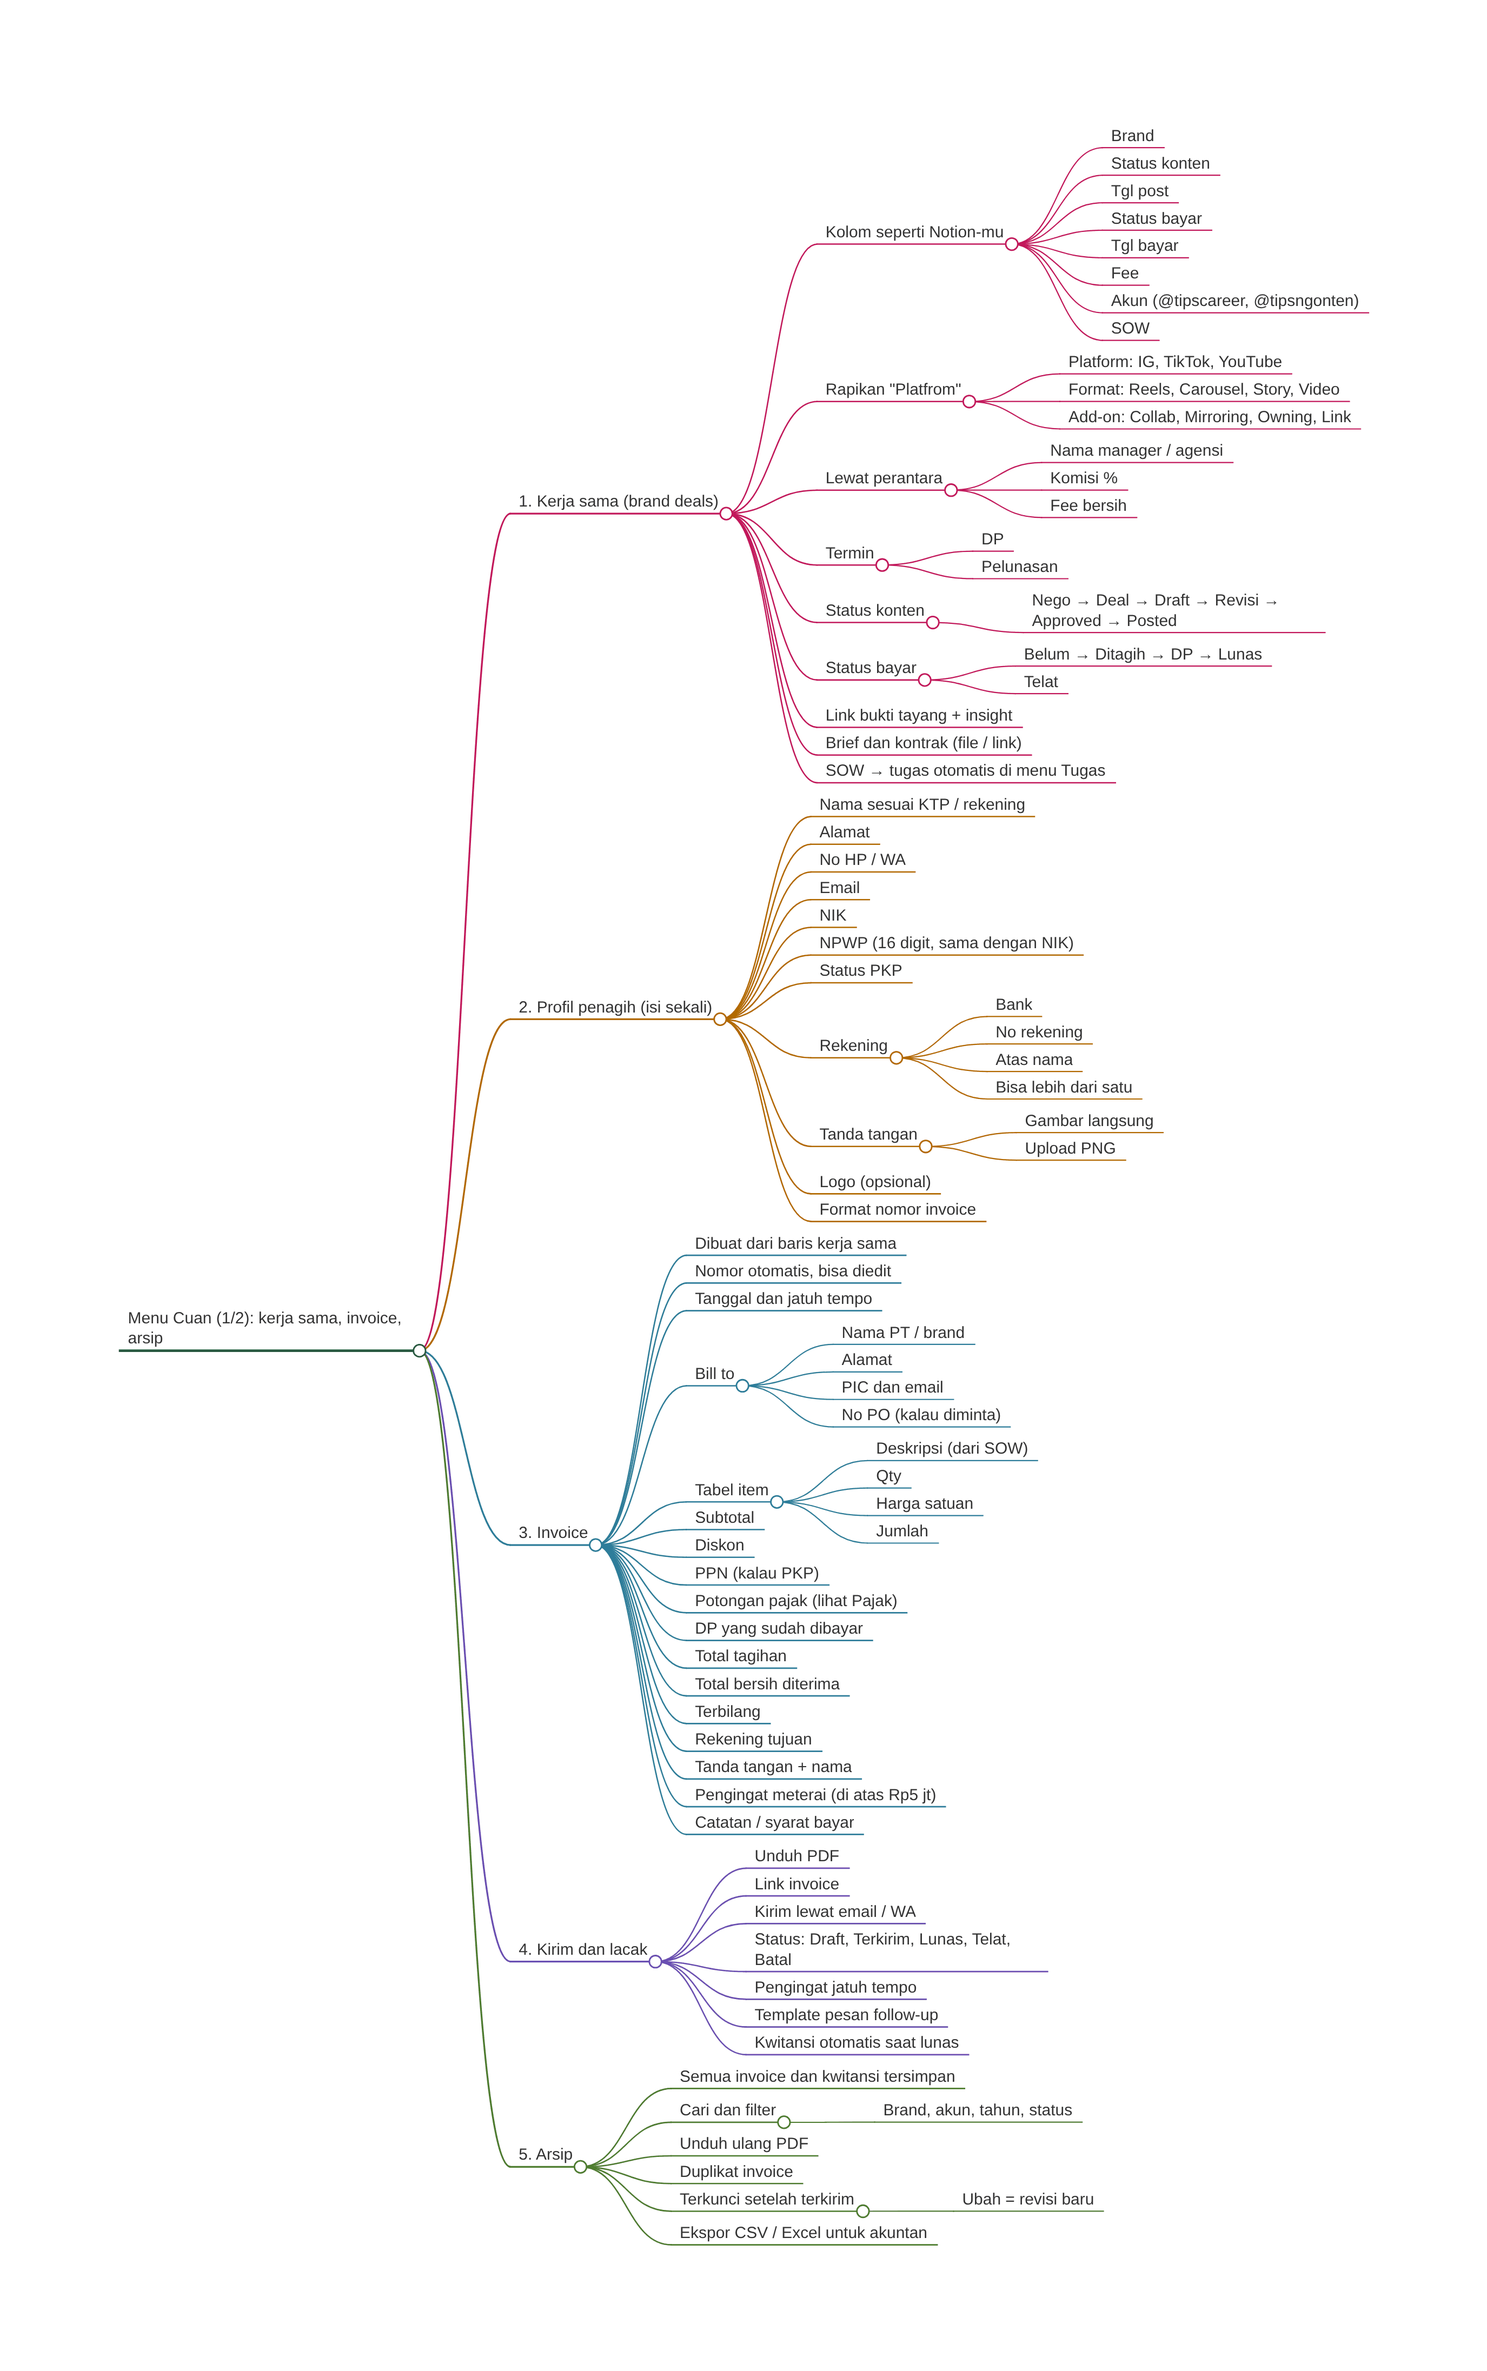
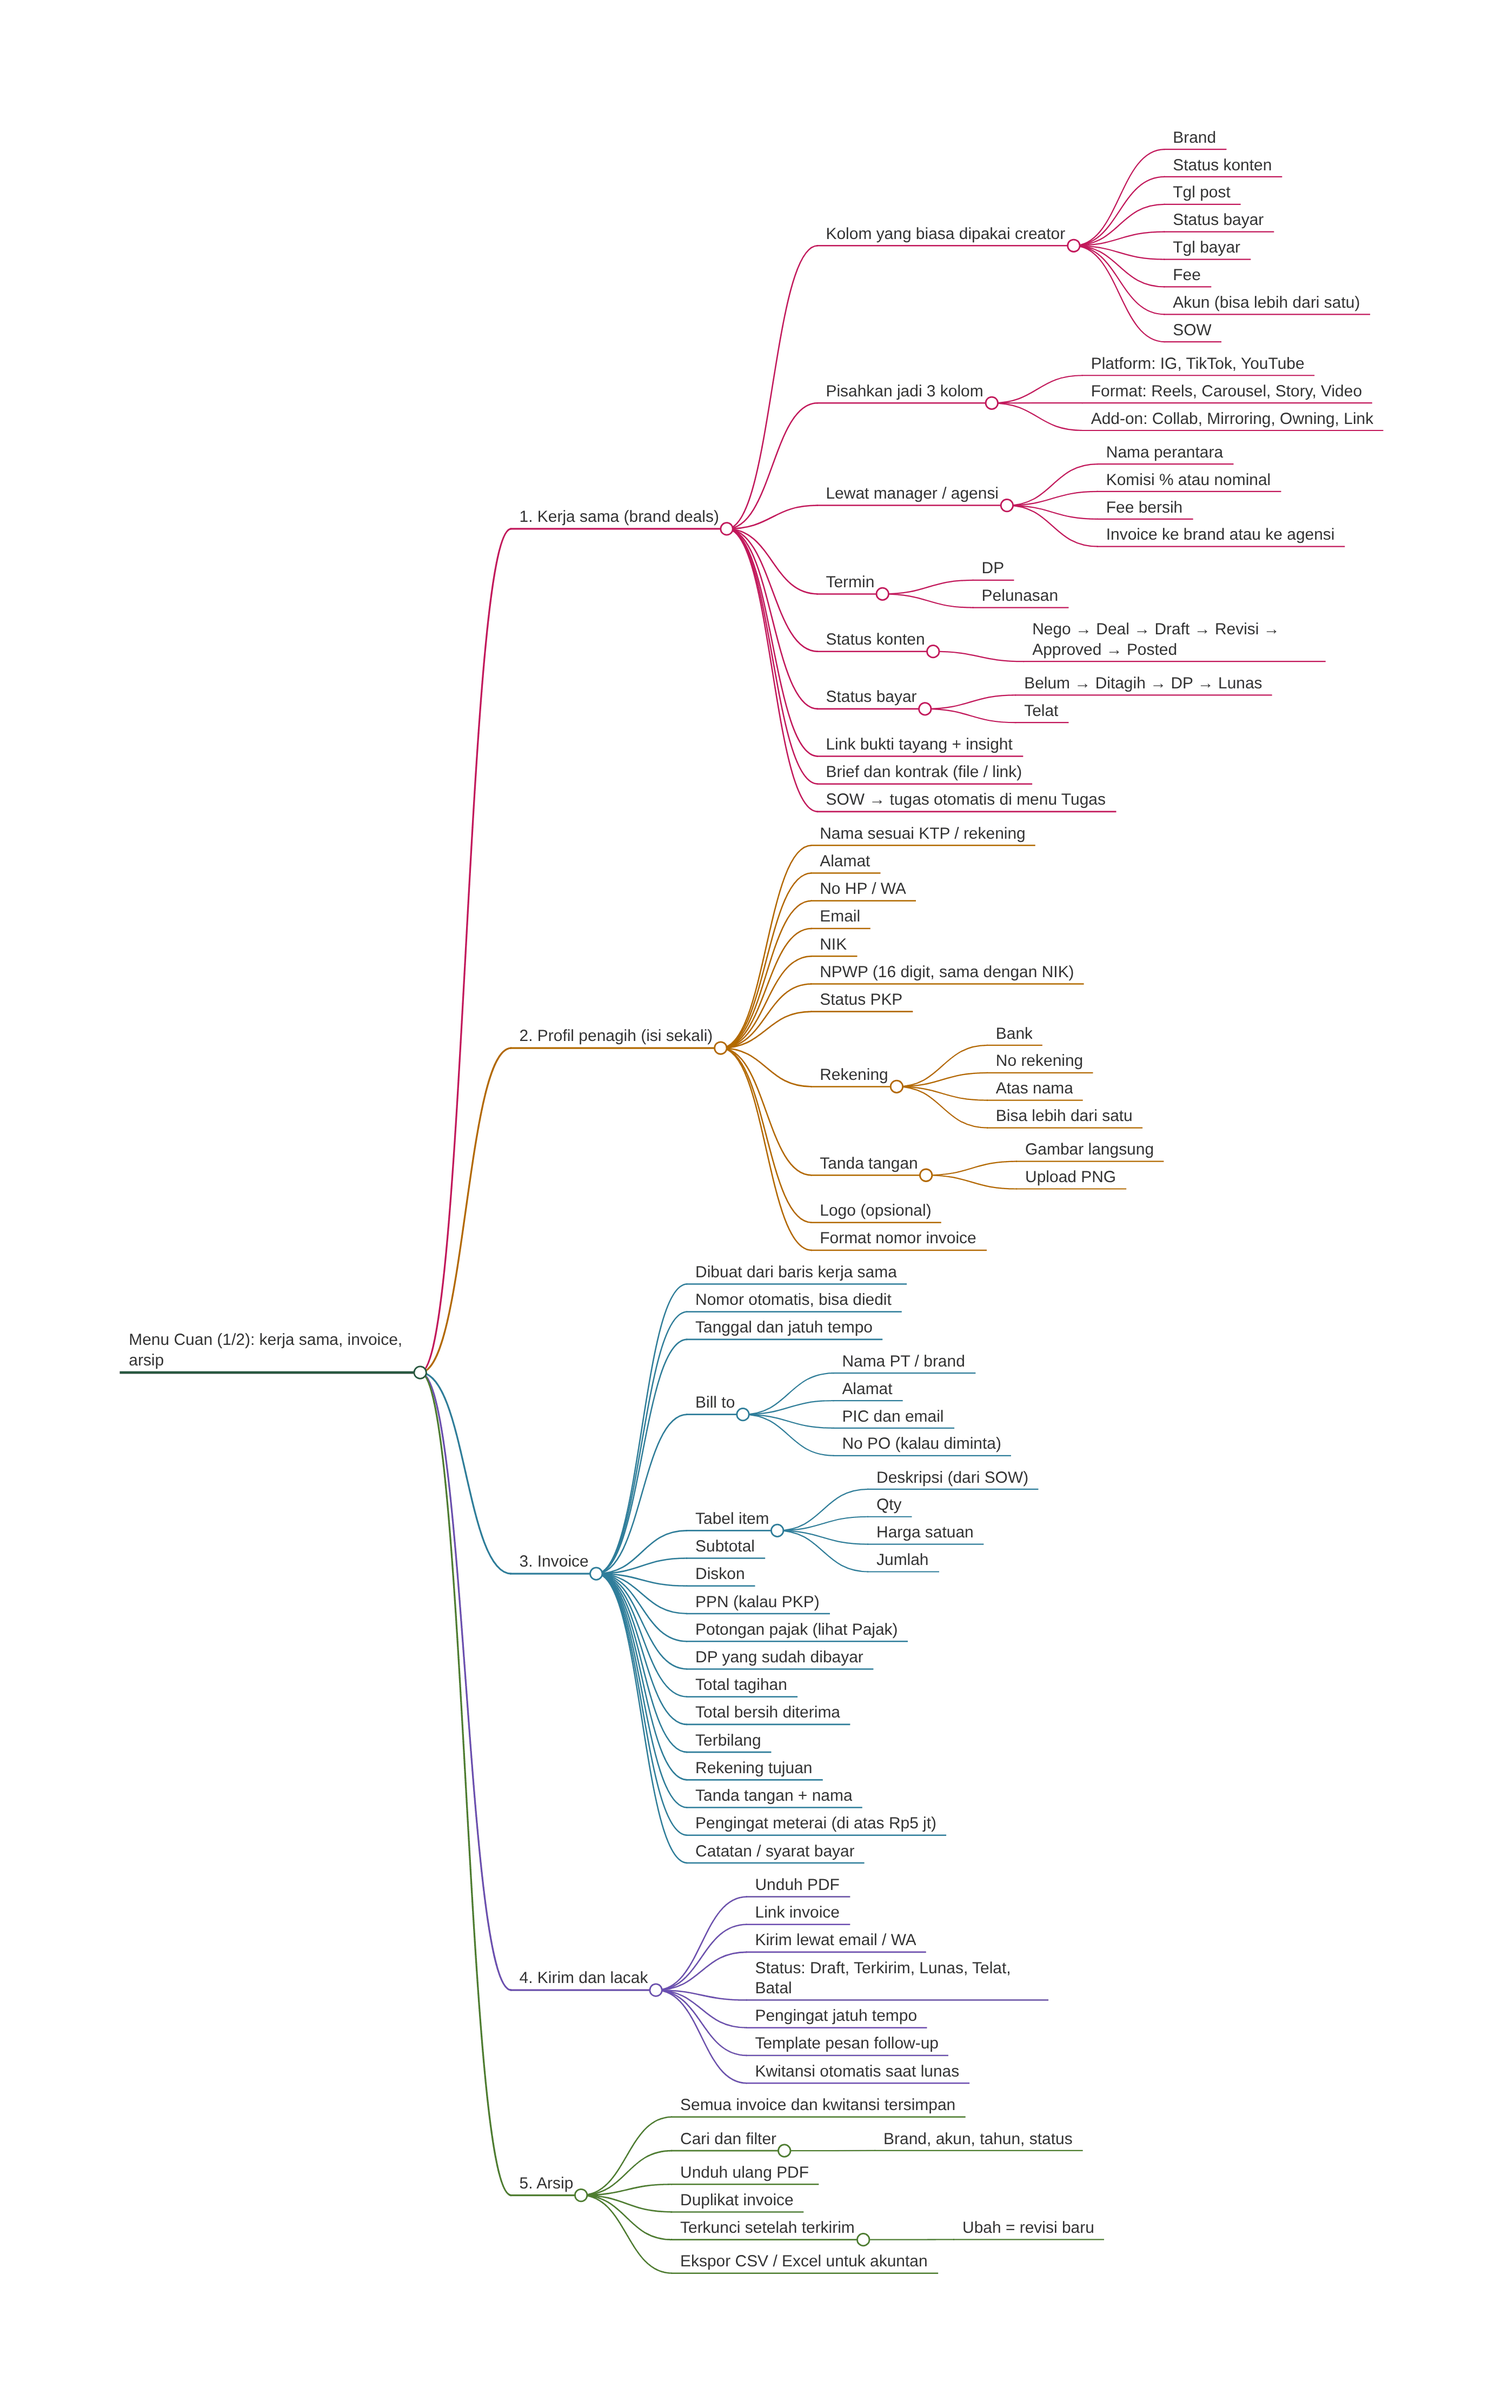
Ganti contoh dari data pribadi dengan contoh umum untuk semua creator
- Hapus nama perantara, handle akun, dan nama tabel Notion pribadi
- Kerja sama: kolom umum, tambah pola deal lewat manager/agensi
- Default pajak lewat satu pertanyaan awal; tampilan invoice otomatis
- Impor CSV dari Notion, Sheets, dan Excel

Claude-Session: https://claude.ai/code/session_01BoM2Up1Jm4HZYeCHUi7T6U

diff --git a/wireframes/index.html b/wireframes/index.html
@@ -459,7 +459,7 @@ u{text-underline-offset:2px}
  <div class="scr">
   <div class="top"><span>‹ Cuan</span><span class="up">Bagikan</span></div>
   <h1>Rate card</h1>
-  <div class="chips"><span class="chip on">@tipscareer</span><span class="chip">@tipsngonten</span></div>
+  <div class="chips"><span class="chip on">@sarita</span><span class="chip">@sarita.review</span></div>
   <div class="li"><div>Naikkan supaya aman pajak<div class="muted">PPh 21 · 2,5% · bulat ke atas</div></div><span class="tg on"></span></div>
   <div class="card">
    <div class="flex"><b>Reels</b><span class="muted">rumus Rp1.050.000</span></div>
@@ -508,24 +508,24 @@ u{text-underline-offset:2px}
 <div class="phone">
  <div class="sb"><span>9.41</span><span>▮▮▮</span></div>
  <div class="scr">
-  <div class="top"><span>‹ INV/TC/2026/11/004</span><span></span></div>
+  <div class="top"><span>‹ INV/2026/11/004</span><span></span></div>
   <h1>Potongan pajak</h1>
   <div class="li"><span class="cb"></span>Tanpa potongan</div>
   <div class="li"><span class="cb"></span>PPh 21 dipotong brand</div>
   <div class="li"><span class="cb done"></span><b>PPh 21, harga aman pajak</b></div>
   <div class="li"><span class="cb"></span>PPh 23 2% (PT/CV)</div>
   <div class="field"><small>Rate bersih yang kamu mau</small>Rp1.500.000</div>
-  <div class="chips"><span class="chip on">Tarif 2,5% ▾</span><span class="chip on">Komisi Jenni 10%</span></div>
+  <div class="chips"><span class="chip on">Tarif 2,5% ▾</span><span class="chip on">Komisi manager 10%</span></div>
   <div class="card" style="font-size:13.5px">
    <div class="flex"><span>Ditagih</span><b>Rp1.715.000</b></div>
    <div class="flex muted"><span>PPh 21</span><span>−Rp42.875</span></div>
-   <div class="flex muted"><span>Komisi Jenni</span><span>−Rp171.500</span></div>
+   <div class="flex muted"><span>Komisi manager</span><span>−Rp171.500</span></div>
    <div class="flex" style="margin-top:4px"><b>Kamu terima</b><b class="up">Rp1.500.625</b></div>
   </div>
   <div class="seg"><span>Ringkas</span><span class="on">Rinci</span></div>
  </div>
 </div>
-<ul class="notes"><li>Dibulatkan ke atas, jadi yang diterima tidak kurang dari rate-mu.</li><li>Angka pajak berupa perkiraan.</li></ul>
+<ul class="notes"><li>Dibulatkan ke atas, jadi yang diterima tidak kurang dari rate-mu.</li><li>Komisi hanya untuk hitunganmu, tidak tercetak di invoice.</li><li>Angka pajak berupa perkiraan.</li></ul>
 </div>
 
 </div>

diff --git a/docs/cuan.md b/docs/cuan.md
@@ -13,24 +13,31 @@ pajak, laporan, impor, template, keamanan, paket). Sumber teks:
 
 ## 1. Kerja sama (brand deals)
 
-Ini pengganti tabel "Brand Deals 2026" di Notion. Kolom yang sudah ada
-dipertahankan, dengan tiga perbaikan yang terlihat dari datamu sekarang.
+Kolomnya mengikuti cara creator biasanya mencatat deal di Notion, Google
+Sheets, atau Excel, ditambah beberapa kolom yang biasanya belum ada.
 
-| Kolom di Notion | Di aplikasi | Catatan |
-|---|---|---|
-| BRAND | Brand | Brand jadi data sendiri (alamat, PIC, email), jadi tidak perlu diketik ulang setiap invoice |
-| Status Konten | Status konten | Nego → Deal → Draft → Revisi → Approved → Posted |
-| Tgl Post | Tanggal posting | Tersambung ke menu Tugas |
-| Status Pay | Status bayar | Belum → Ditagih → DP → Lunas, ditambah Telat (otomatis kalau lewat jatuh tempo) |
-| Tgl Pay | Tanggal dibayar | Diisi saat ditandai Lunas |
-| FEE | Fee | Bruto, sebelum potongan |
-| Platfrom | **Platform + Format + Add-on** | Sekarang isinya campuran (REELS, TIKTOK, MIRRORING, Owning, Carousel). Dipecah supaya bisa dihitung: Platform = IG/TikTok/YouTube, Format = Reels/Carousel/Story/Video, Add-on = Collab/Mirroring/Owning/Link |
-| Akun | Akun | @tipscareer, @tipsngonten, dst. Setiap akun punya rate card sendiri |
-| SOW | SOW | Ditulis sebagai daftar deliverable. Tiap baris otomatis jadi tugas di menu Tugas dan baris di invoice |
-| — | **Lewat (perantara)** | Brand yang ditulis "(Jenni)" dicatat sebagai deal lewat Jenni, beserta komisinya, sehingga fee bersihmu terlihat |
-| — | Termin | DP sekian %, pelunasan setelah posting |
-| — | Bukti tayang | Link postingan + angka dari data impor |
-| — | Brief & kontrak | File atau link |
+| Kolom | Catatan |
+|---|---|
+| Brand | Brand jadi data sendiri (alamat, PIC, email), jadi tidak perlu diketik ulang setiap invoice |
+| Akun | Untuk creator yang punya lebih dari satu akun. Setiap akun punya rate card sendiri |
+| Platform + Format + Add-on | Tiga kolom terpisah. Di tabel manual, ketiganya sering dicampur dalam satu kolom (mis. "Reels, TikTok, mirroring"), jadi tidak bisa dihitung. Platform = IG/TikTok/YouTube, Format = Reels/Carousel/Story/Video, Add-on = Collab/Mirroring/Owning/Link |
+| SOW | Daftar deliverable. Tiap baris otomatis jadi tugas di menu Tugas dan baris di invoice |
+| Status konten | Nego → Deal → Draft → Revisi → Approved → Posted |
+| Tanggal posting | Tersambung ke menu Tugas |
+| Fee | Bruto, sebelum potongan |
+| Status bayar | Belum → Ditagih → DP → Lunas, ditambah Telat (otomatis kalau lewat jatuh tempo) |
+| Tanggal dibayar | Diisi saat ditandai Lunas |
+| **Lewat manager / agensi** | Nama perantara dan komisinya (% atau nominal), sehingga fee bersih terlihat |
+| Termin | DP sekian %, pelunasan setelah posting |
+| Bukti tayang | Link postingan + angka dari data impor |
+| Brief & kontrak | File atau link |
+
+**Deal lewat manager atau agensi.** Ada dua pola, dan creator memilih salah
+satu per deal:
+- **Brand bayar ke kamu, kamu bayar komisi ke manager.** Invoice ke brand.
+  Komisi hanya muncul di hitunganmu, tidak tercetak di invoice.
+- **Brand bayar ke agensi, agensi bayar ke kamu.** Invoice ke agensi
+  (Bill to = agensi), sebesar fee setelah komisi.
 
 ## 2. Profil penagih (diisi sekali, dipakai di semua invoice)
 
@@ -42,7 +49,8 @@ dipertahankan, dengan tiga perbaikan yang terlihat dari datamu sekarang.
   rekening sebagai default.
 - **Tanda tangan:** digambar langsung di layar atau upload PNG transparan.
 - Logo (opsional).
-- Format nomor invoice, misalnya `INV/TC/2026/11/001`.
+- Format nomor invoice, misalnya `INV/2026/11/001`, atau dengan kode akun
+  (`INV/SR/2026/11/001`) untuk creator yang punya beberapa akun.
 
 ## 3. Invoice
 
@@ -63,7 +71,16 @@ dicek.
 
 ### Potongan pajak
 
-Default-nya diatur sekali di pengaturan, dan bisa diganti per invoice.
+**Default untuk pengguna baru.** Saat pertama membuka Cuan, aplikasi
+menanyakan satu hal: *"Biasanya brand memotong pajak dari fee-mu?"*
+
+| Jawaban | Default yang dipasang |
+|---|---|
+| Ya | PPh 21 dipotong brand, 2,5%. Langsung muncul tawaran: "Mau tetap terima rate utuh? Nyalakan harga aman pajak" |
+| Tidak | Tanpa potongan |
+| Belum tahu | Tanpa potongan, plus penjelasan singkat dan perkiraan potongan kalau nanti brand memotong |
+
+Default bisa diubah di pengaturan dan diganti per invoice.
 
 | Pilihan | Dipakai kalau | Hasilnya |
 |---|---|---|
@@ -91,12 +108,15 @@ rate-mu.
 |---|---|---|---|---|---|---|
 | Rp1.000.000 | 2,5% | — | Rp1.026.000 | Rp25.650 | — | Rp1.000.350 |
 | Rp1.000.000 | 3% | — | Rp1.031.000 | Rp30.930 | — | Rp1.000.070 |
-| Rp1.500.000 | 2,5% | 10% (Jenni) | Rp1.715.000 | Rp42.875 | Rp171.500 | Rp1.500.625 |
+| Rp1.500.000 | 2,5% | 10% (manager) | Rp1.715.000 | Rp42.875 | Rp171.500 | Rp1.500.625 |
 
-**Tampilan di invoice** (pilih salah satu):
-- **Ringkas:** hanya harga yang sudah dinaikkan, tanpa baris pajak.
-- **Rinci:** Nilai jasa → PPh 21 dipotong (2,5%) → Jumlah yang ditransfer.
-  Tim finance brand biasanya lebih suka yang ini.
+**Tampilan di invoice** dipilih otomatis, dan bisa diganti:
+- **Rinci** kalau ada potongan pajak: Nilai jasa → PPh 21 dipotong (2,5%) →
+  Jumlah yang ditransfer. Tim finance brand butuh rincian ini untuk membuat
+  bukti potong.
+- **Ringkas** kalau tanpa potongan: hanya total, tanpa baris pajak.
+
+Komisi manager tidak pernah tercetak di invoice ke brand.
 
 Kalau kamu PKP, PPN dihitung dari nilai jasa dan ditambahkan di atasnya;
 PPh dihitung dari nilai jasa sebelum PPN.
@@ -108,7 +128,7 @@ PPh dihitung dari nilai jasa sebelum PPN.
 - Pengingat H-1 dan saat jatuh tempo, plus template pesan follow-up.
 - **Kwitansi otomatis** begitu ditandai Lunas.
 - Setelah terkirim, invoice dikunci. Perubahan dibuat sebagai revisi
-  (`INV/TC/2026/11/001-R1`), supaya arsipnya rapi.
+  (`INV/2026/11/001-R1`), supaya arsipnya rapi.
 
 ### Arsip
 
@@ -138,7 +158,7 @@ rate = median views ÷ 1.000 × tarif per 1.000 views
 
 Hasilnya dua angka: **harga buka** (untuk nego) dan **harga minimum** (batas
 bawah). Di sebelahnya ada **fee rata-rata asli** dari deal-deal sebelumnya,
-misalnya "Reels @tipscareer: rata-rata Rp1.150.000 dari 6 deal", supaya
+misalnya "Reels: rata-rata Rp1.150.000 dari 6 deal", supaya
 kelihatan kalau rate card terlalu tinggi atau terlalu rendah.
 
 ### Harga custom dan paket
@@ -176,8 +196,8 @@ Bisa dibagikan sebagai PDF atau link, dan nyambung ke media kit.
 
 | Ide | Kenapa penting |
 |---|---|
-| **Impor dari Notion** (CSV) | Data "Brand Deals 2026" langsung pindah, tanpa ketik ulang. Kolom Platfrom otomatis dipecah jadi platform, format, dan add-on |
-| **Perantara + komisi** | Fee bruto vs yang benar-benar kamu terima kelihatan jelas |
+| **Impor dari Notion, Sheets, Excel** (CSV) | Catatan deal yang sudah ada langsung pindah, tanpa ketik ulang. Kolom dicocokkan otomatis; kolom campuran platform/format dipecah jadi tiga |
+| **Manager / agensi + komisi** | Fee bruto vs yang benar-benar kamu terima kelihatan jelas |
 | **Termin / DP** | Banyak brand bayar DP dulu; sisa tagihan dihitung otomatis |
 | **Lama dibayar per brand** | Kelihatan brand yang selalu telat bayar, berguna untuk menentukan syarat DP berikutnya |
 | **Brand langganan** | Brand yang deal lebih dari sekali bisa ditawari paket bulanan |
@@ -207,11 +227,15 @@ Detail syarat ada di [akun-privasi.md](akun-privasi.md).
 | Invoice | 3 per bulan | Tanpa batas, plus kwitansi, link, pengingat |
 | Rate card otomatis | — | Ya |
 | Rekap pajak & ekspor | — | Ya |
-| Impor Notion | Ya (sekali, supaya mudah pindah) | Ya |
+| Impor CSV (Notion, Sheets, Excel) | Ya (sekali, supaya mudah pindah) | Ya |
 
 ## 8. Keputusan terbuka
 
-1. Default potongan pajak untuk akunmu: PPh 21 biasa atau harga aman pajak? Tampilan invoice default: ringkas atau rinci?
-2. Default jatuh tempo: NET 7 atau NET 14?
-3. Nilai awal add-on dan faktor format: pakai angka di atas, atau kamu punya patokan sendiri?
-4. Perlu contoh file ekspor CSV dari Notion "Brand Deals 2026" supaya impornya pas.
+Sudah diputuskan: default pajak lewat satu pertanyaan awal, dan tampilan
+invoice otomatis (rinci kalau ada potongan). Lihat bagian 3.
+
+1. Default jatuh tempo: NET 7 atau NET 14?
+2. Nilai awal add-on dan faktor format: cek ke 10-20 creator lewat survei
+   validasi (lihat [ux-research.md](ux-research.md)) sebelum dipakai.
+3. Kumpulkan 5-10 contoh tabel brand deals dari creator lain (Notion,
+   Sheets, Excel) untuk menguji pencocokan kolom saat impor.

diff --git a/docs/mindmap/menu-cuan.md b/docs/mindmap/menu-cuan.md
@@ -20,23 +20,24 @@ markmap:
 
 ## 1. Kerja sama (brand deals)
 
-- Kolom seperti Notion-mu
+- Kolom yang biasa dipakai creator
   - Brand
   - Status konten
   - Tgl post
   - Status bayar
   - Tgl bayar
   - Fee
-  - Akun (@tipscareer, @tipsngonten)
+  - Akun (bisa lebih dari satu)
   - SOW
-- Rapikan "Platfrom"
+- Pisahkan jadi 3 kolom
   - Platform: IG, TikTok, YouTube
   - Format: Reels, Carousel, Story, Video
   - Add-on: Collab, Mirroring, Owning, Link
-- Lewat perantara
-  - Nama manager / agensi
-  - Komisi %
+- Lewat manager / agensi
+  - Nama perantara
+  - Komisi % atau nominal
   - Fee bersih
+  - Invoice ke brand atau ke agensi
 - Termin
   - DP
   - Pelunasan
@@ -167,6 +168,7 @@ markmap:
 
 ## 7. Pajak
 
+- Default dari 1 pertanyaan awal
 - Pilihan potongan per invoice
   - Tanpa potongan
   - PPh 21 dipotong brand
@@ -180,9 +182,10 @@ markmap:
   - Ditagih = bersih ÷ (1 − tarif − komisi)
   - Dibulatkan ke atas
   - Kamu terima ≥ rate-mu
-- Tampilan invoice
-  - Ringkas: tanpa baris pajak
-  - Rinci: nilai jasa, PPh, ditransfer
+- Tampilan invoice (otomatis)
+  - Ada potongan: rinci
+  - Tanpa potongan: ringkas
+  - Bisa diganti
 - Perkiraan uang bersih per deal
 - Simpan bukti potong
 - Rekap tahunan untuk SPT
@@ -202,9 +205,9 @@ markmap:
 
 ## 9. Impor
 
-- CSV dari Notion
+- CSV dari Notion, Sheets, Excel
 - Cocokkan kolom
-- Rapikan platform / format otomatis
+- Pisahkan platform / format otomatis
 
 ## 10. Template pesan
 
@@ -230,4 +233,4 @@ markmap:
   - Kwitansi, pengingat, link invoice
   - Rate card otomatis
   - Rekap pajak dan ekspor
-  - Impor Notion
+  - Impor CSV
